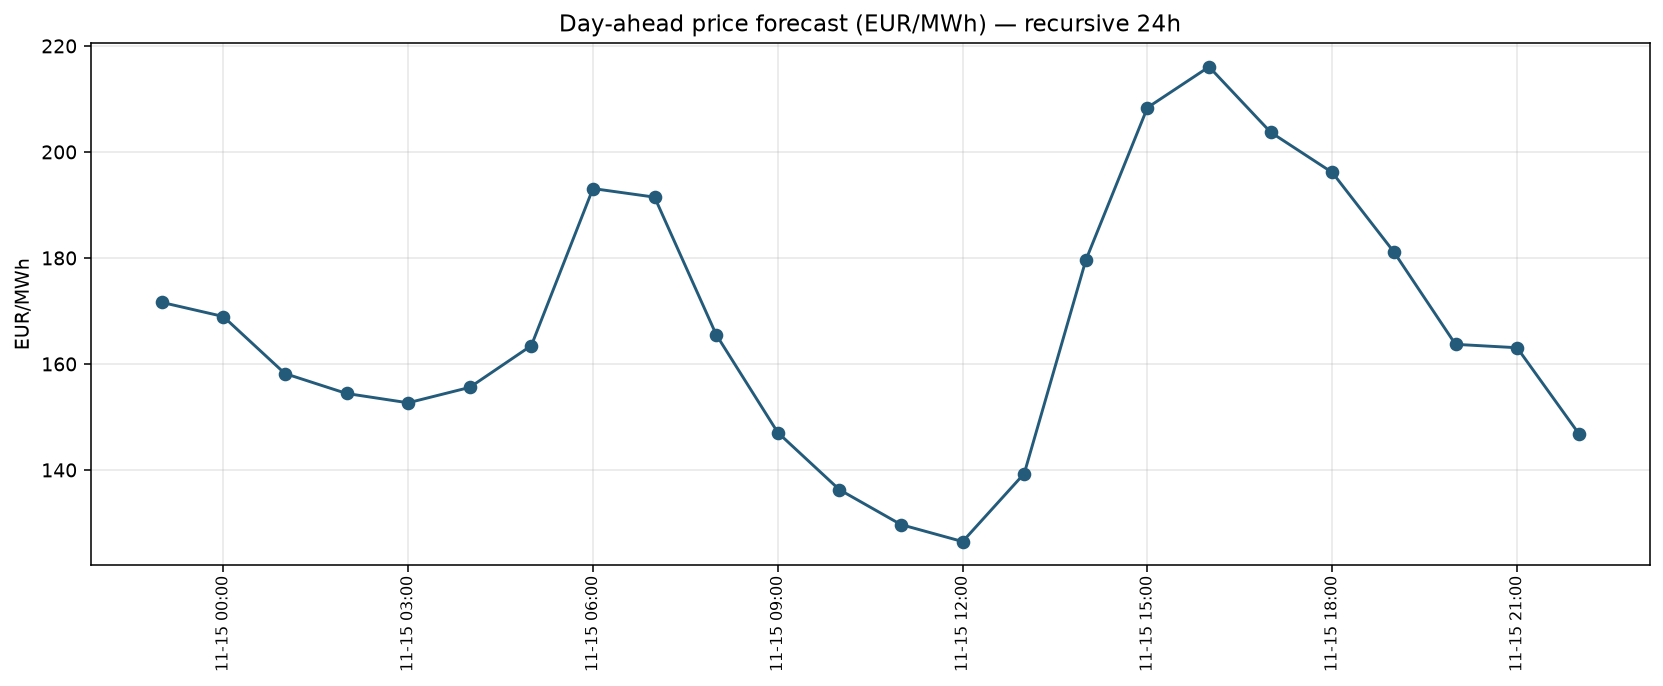
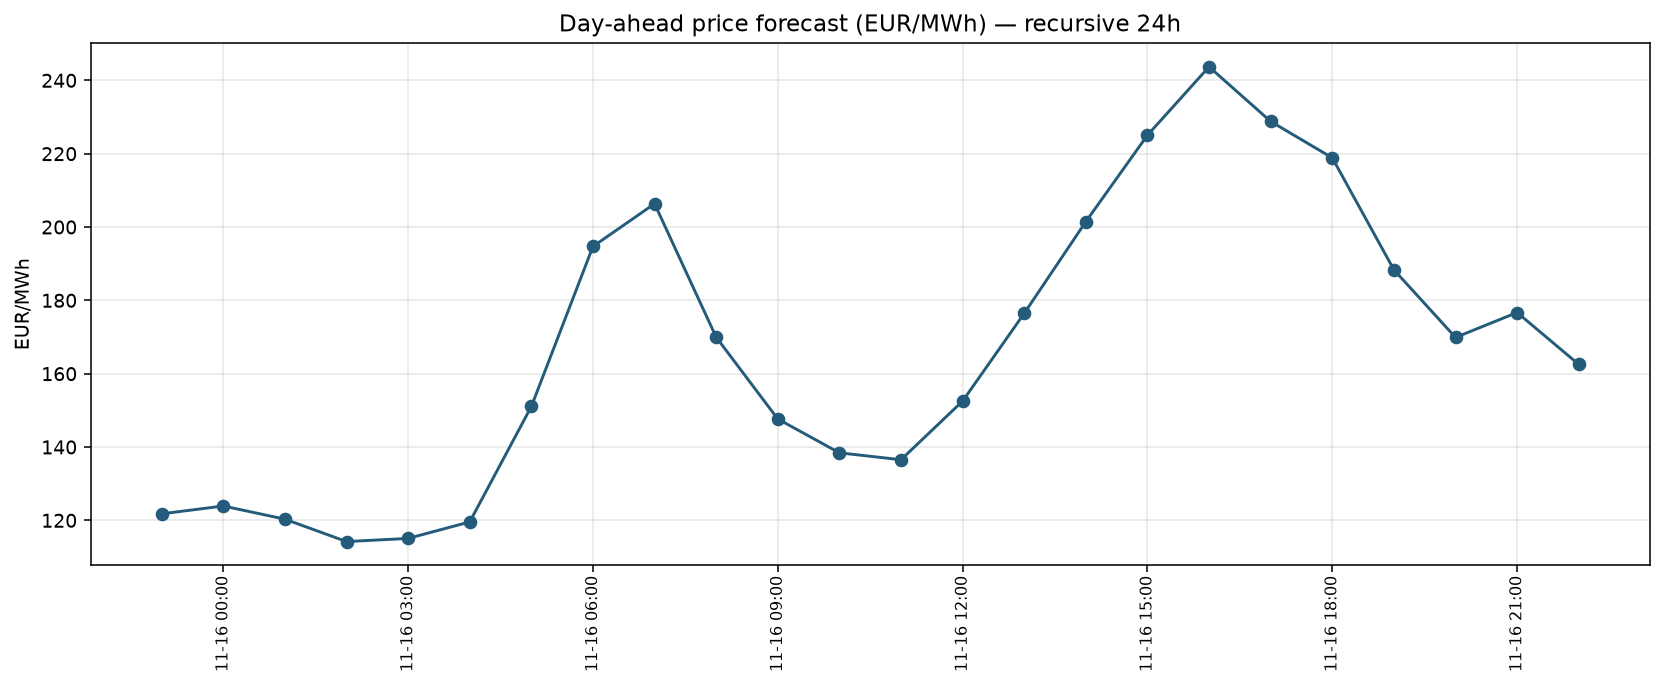
chore: daily forecast update

diff --git a/README.md b/README.md
@@ -195,9 +195,9 @@ Licence: MIT (code). Underlying market data remain subject to their original lic
 
 ## Live daily forecast
 
-**Generated (UTC):** 2026-11-14 10:59  
-**Based on data up to (UTC):** 2026-11-14 22:00  
-**Forecast horizon (UTC):** 2026-11-14 23:00 to 2026-11-15 22:00  
+**Generated (UTC):** 2026-11-14 20:53  
+**Based on data up to (UTC):** 2026-11-15 22:00  
+**Forecast horizon (UTC):** 2026-11-15 23:00 to 2026-11-16 22:00  
 **Protocol:** Conservative (external_shift = 24) + recursive 24h + hourly bias correction
 
 ### Forecast chart
@@ -208,30 +208,30 @@ Licence: MIT (code). Underlying market data remain subject to their original lic
 
 | Hour (UTC) | Forecast (EUR/MWh) | Bias |
 |------------|--------------------|------|
-| 2026-11-14 23:00 | 171.62 | -6.23 |
-| 2026-11-15 00:00 | 168.95 | -10.83 |
-| 2026-11-15 01:00 | 158.19 | -8.49 |
-| 2026-11-15 02:00 | 154.43 | -7.68 |
-| 2026-11-15 03:00 | 152.67 | -7.63 |
-| 2026-11-15 04:00 | 155.58 | -0.83 |
-| 2026-11-15 05:00 | 163.46 | -1.28 |
-| 2026-11-15 06:00 | 193.09 | -10.64 |
-| 2026-11-15 07:00 | 191.47 | -13.00 |
-| 2026-11-15 08:00 | 165.54 | -7.54 |
-| 2026-11-15 09:00 | 147.06 | -5.16 |
-| 2026-11-15 10:00 | 136.28 | -2.65 |
-| 2026-11-15 11:00 | 129.69 | -0.39 |
-| 2026-11-15 12:00 | 126.49 | -0.09 |
-| 2026-11-15 13:00 | 139.32 | -2.39 |
-| 2026-11-15 14:00 | 179.59 | -4.69 |
-| 2026-11-15 15:00 | 208.36 | -7.74 |
-| 2026-11-15 16:00 | 216.06 | -3.73 |
-| 2026-11-15 17:00 | 203.71 | 2.27 |
-| 2026-11-15 18:00 | 196.12 | 2.73 |
-| 2026-11-15 19:00 | 181.13 | 6.96 |
-| 2026-11-15 20:00 | 163.70 | 7.78 |
-| 2026-11-15 21:00 | 163.06 | 1.01 |
-| 2026-11-15 22:00 | 146.87 | 0.36 |
+| 2026-11-15 23:00 | 121.78 | -5.12 |
+| 2026-11-16 00:00 | 123.91 | -1.58 |
+| 2026-11-16 01:00 | 120.32 | 0.87 |
+| 2026-11-16 02:00 | 114.21 | 2.27 |
+| 2026-11-16 03:00 | 115.07 | 2.11 |
+| 2026-11-16 04:00 | 119.57 | 7.11 |
+| 2026-11-16 05:00 | 151.05 | 4.75 |
+| 2026-11-16 06:00 | 194.69 | -3.43 |
+| 2026-11-16 07:00 | 206.35 | -3.94 |
+| 2026-11-16 08:00 | 169.95 | 2.03 |
+| 2026-11-16 09:00 | 147.64 | 5.49 |
+| 2026-11-16 10:00 | 138.41 | 8.69 |
+| 2026-11-16 11:00 | 136.53 | 10.96 |
+| 2026-11-16 12:00 | 152.52 | 9.53 |
+| 2026-11-16 13:00 | 176.45 | 3.19 |
+| 2026-11-16 14:00 | 201.46 | 2.62 |
+| 2026-11-16 15:00 | 225.04 | 1.47 |
+| 2026-11-16 16:00 | 243.69 | 4.00 |
+| 2026-11-16 17:00 | 228.79 | 10.29 |
+| 2026-11-16 18:00 | 218.86 | 11.94 |
+| 2026-11-16 19:00 | 188.33 | 16.69 |
+| 2026-11-16 20:00 | 169.88 | 15.74 |
+| 2026-11-16 21:00 | 176.68 | 10.00 |
+| 2026-11-16 22:00 | 162.53 | 3.12 |
 
 ### Previous forecasts vs realized prices
 
